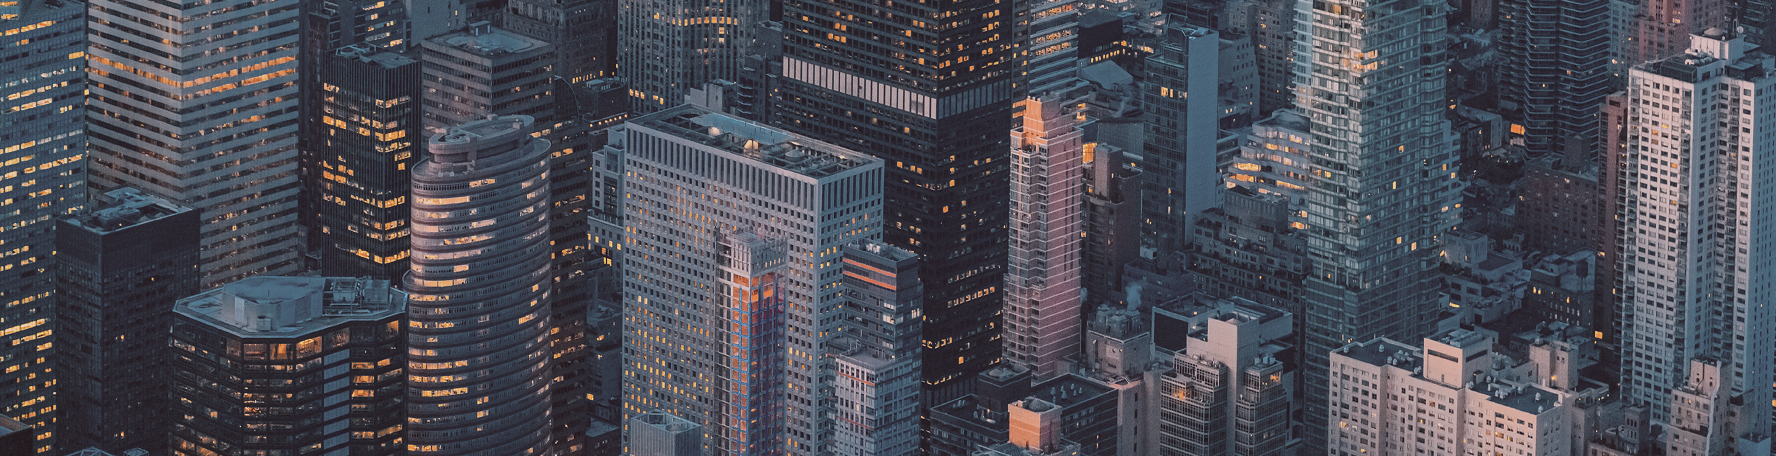
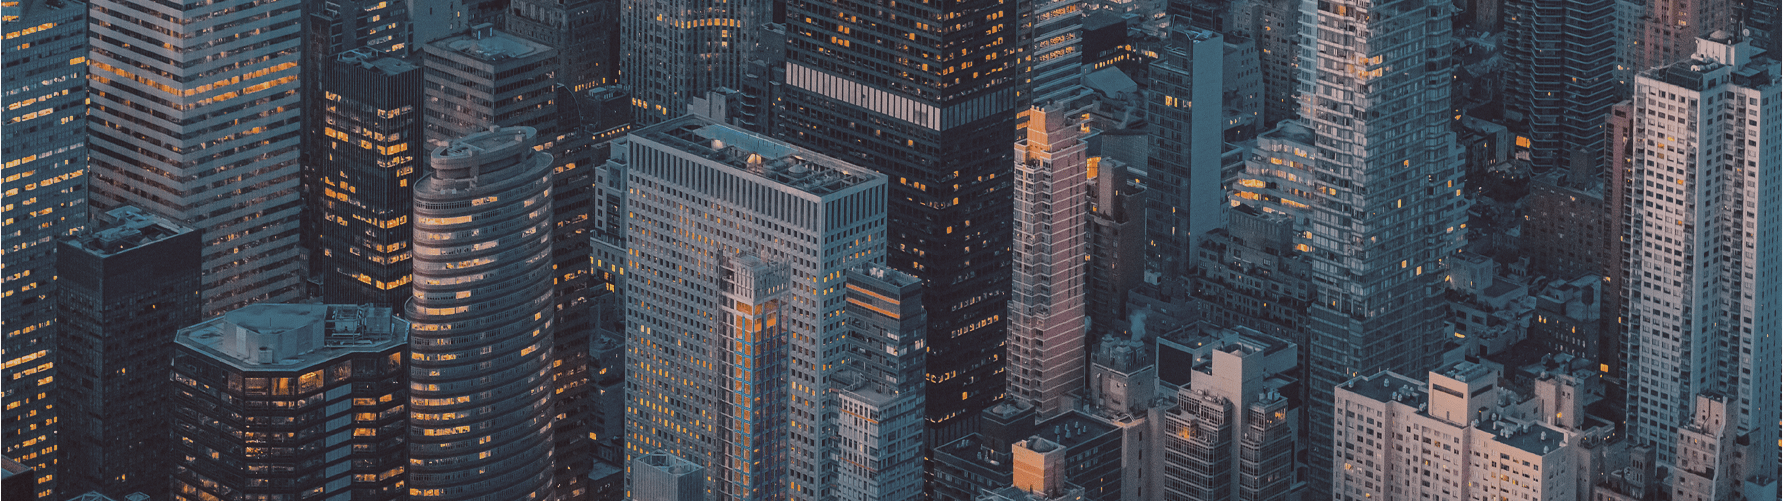
pc 비주얼 이미지 교체

diff --git a/resources/frontAssets/pc/css/main.css b/resources/frontAssets/pc/css/main.css
@@ -261,8 +261,21 @@ body {
 }
 .page-header.about {
   background-image: url("../../../frontAssets/pc/image/main_visual_about.png");
+  background-position: 50% -10px;
 }
 .page-header.about::before {
+  background: url("../../../frontAssets/pc/image/main_mask_about.png") no-repeat 100% 50%;
+}
+.page-header.organization {
+  background-image: url("../../../frontAssets/pc/image/main_visual_organization.png");
+}
+.page-header.organization::before {
+  background: url("../../../frontAssets/pc/image/main_mask_about.png") no-repeat 100% 50%;
+}
+.page-header.location {
+  background-image: url("../../../frontAssets/pc/image/main_visual_location.png");
+}
+.page-header.location::before {
   background: url("../../../frontAssets/pc/image/main_mask_about.png") no-repeat 100% 50%;
 }
 .page-header.assets {

diff --git a/resources/frontAssets/pc/css/main.scss b/resources/frontAssets/pc/css/main.scss
@@ -306,6 +306,22 @@ body {
 
     &.about {
       background-image: url('../../../frontAssets/pc/image/main_visual_about.png');
+      background-position: 50% -10px;
+      &::before {
+        background: url('../../../frontAssets/pc/image/main_mask_about.png') no-repeat 100% 50%;
+      }
+    }
+
+    &.organization {
+      background-image: url('../../../frontAssets/pc/image/main_visual_organization.png');
+
+      &::before {
+        background: url('../../../frontAssets/pc/image/main_mask_about.png') no-repeat 100% 50%;
+      }
+    }
+
+    &.location {
+      background-image: url('../../../frontAssets/pc/image/main_visual_location.png');
       &::before {
         background: url('../../../frontAssets/pc/image/main_mask_about.png') no-repeat 100% 50%;
       }

diff --git a/pc/about/organization/FP0003.html b/pc/about/organization/FP0003.html
@@ -98,7 +98,7 @@
     </header>
 
     <main class="sub-page">
-      <div class="page-header about">
+      <div class="page-header organization">
         <div class="page-header__content">
           <h2 class="page-title">조직소개</h2>
         </div>

diff --git a/pc/about/organization/FP0003_nodata.html b/pc/about/organization/FP0003_nodata.html
@@ -98,7 +98,7 @@
     </header>
 
     <main class="sub-page">
-      <div class="page-header about">
+      <div class="page-header organization">
         <div class="page-header__content">
           <h2 class="page-title">조직소개</h2>
         </div>

diff --git a/pc/about/location/FP0004.html b/pc/about/location/FP0004.html
@@ -101,7 +101,7 @@
     </header>
 
     <main class="sub-page">
-      <div class="page-header about">
+      <div class="page-header location">
         <div class="page-header__content">
           <h2 class="page-title">오시는길</h2>
         </div>
